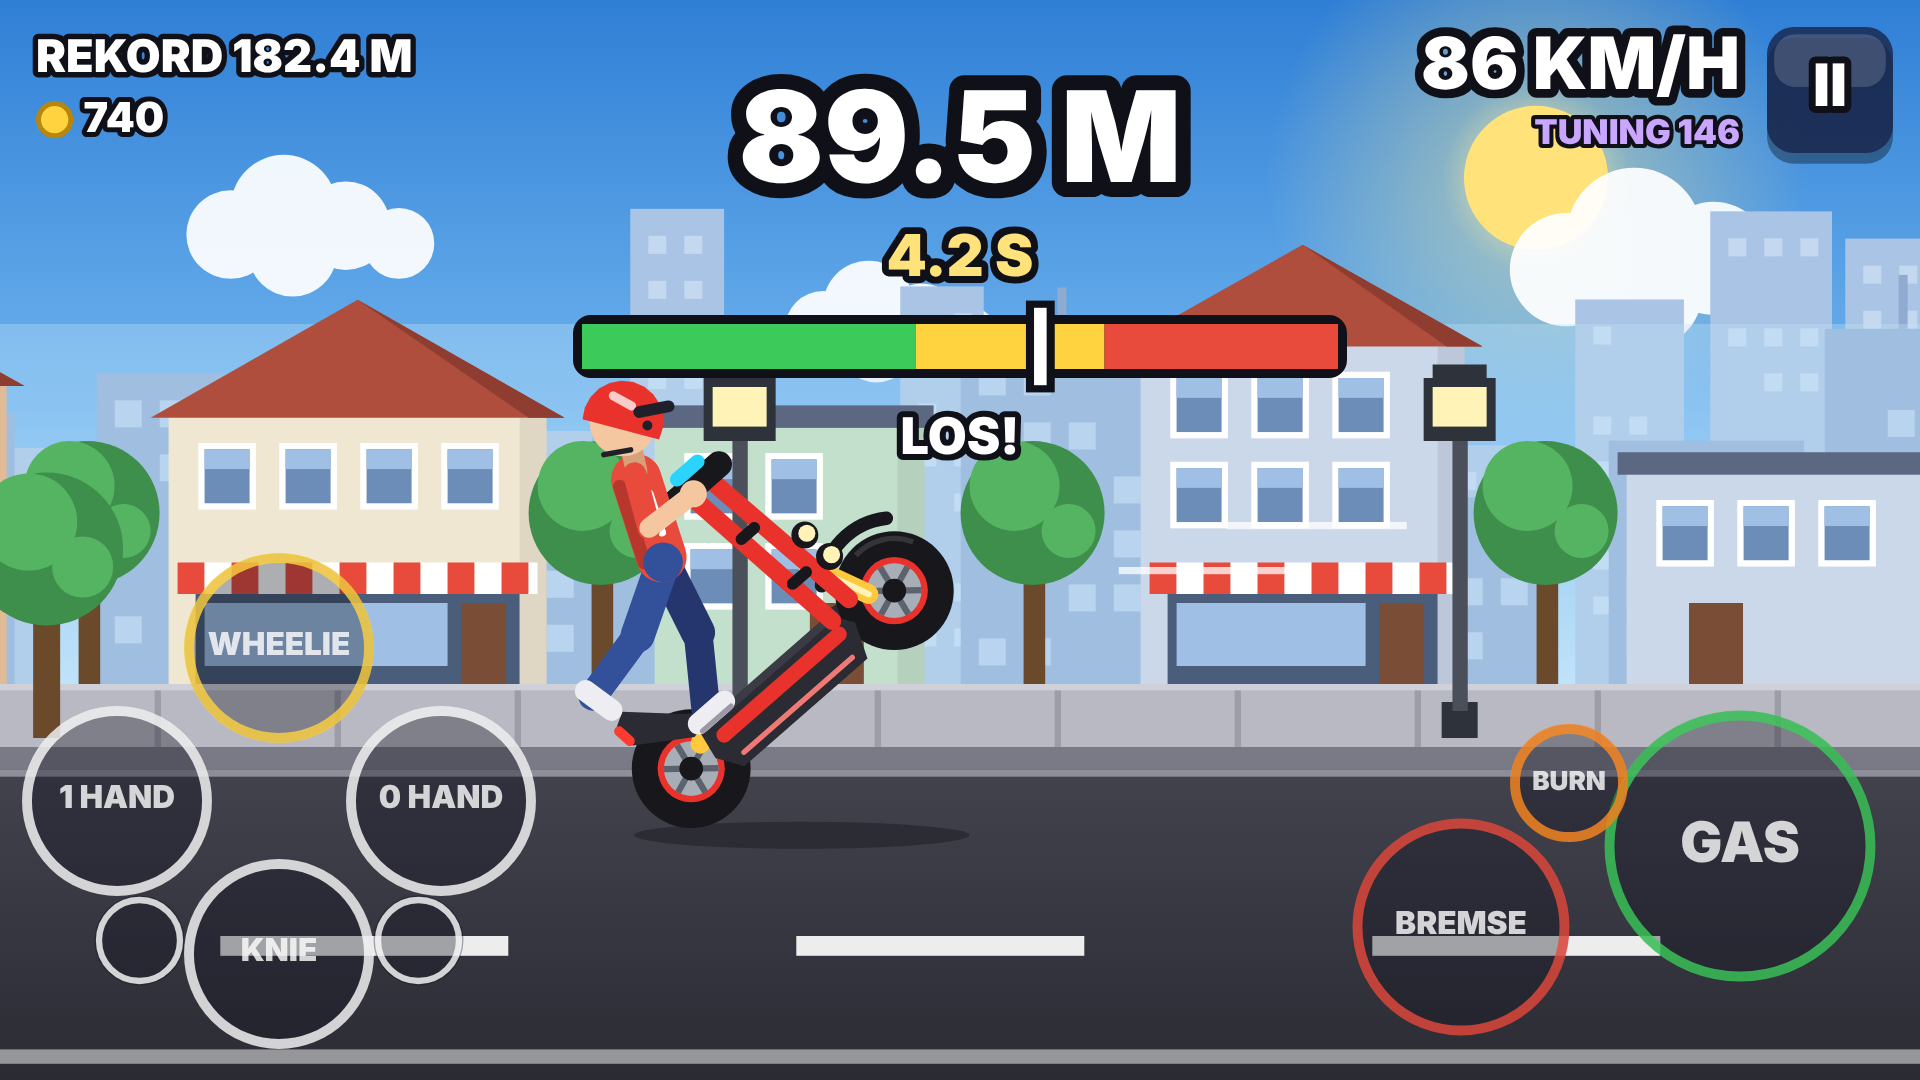
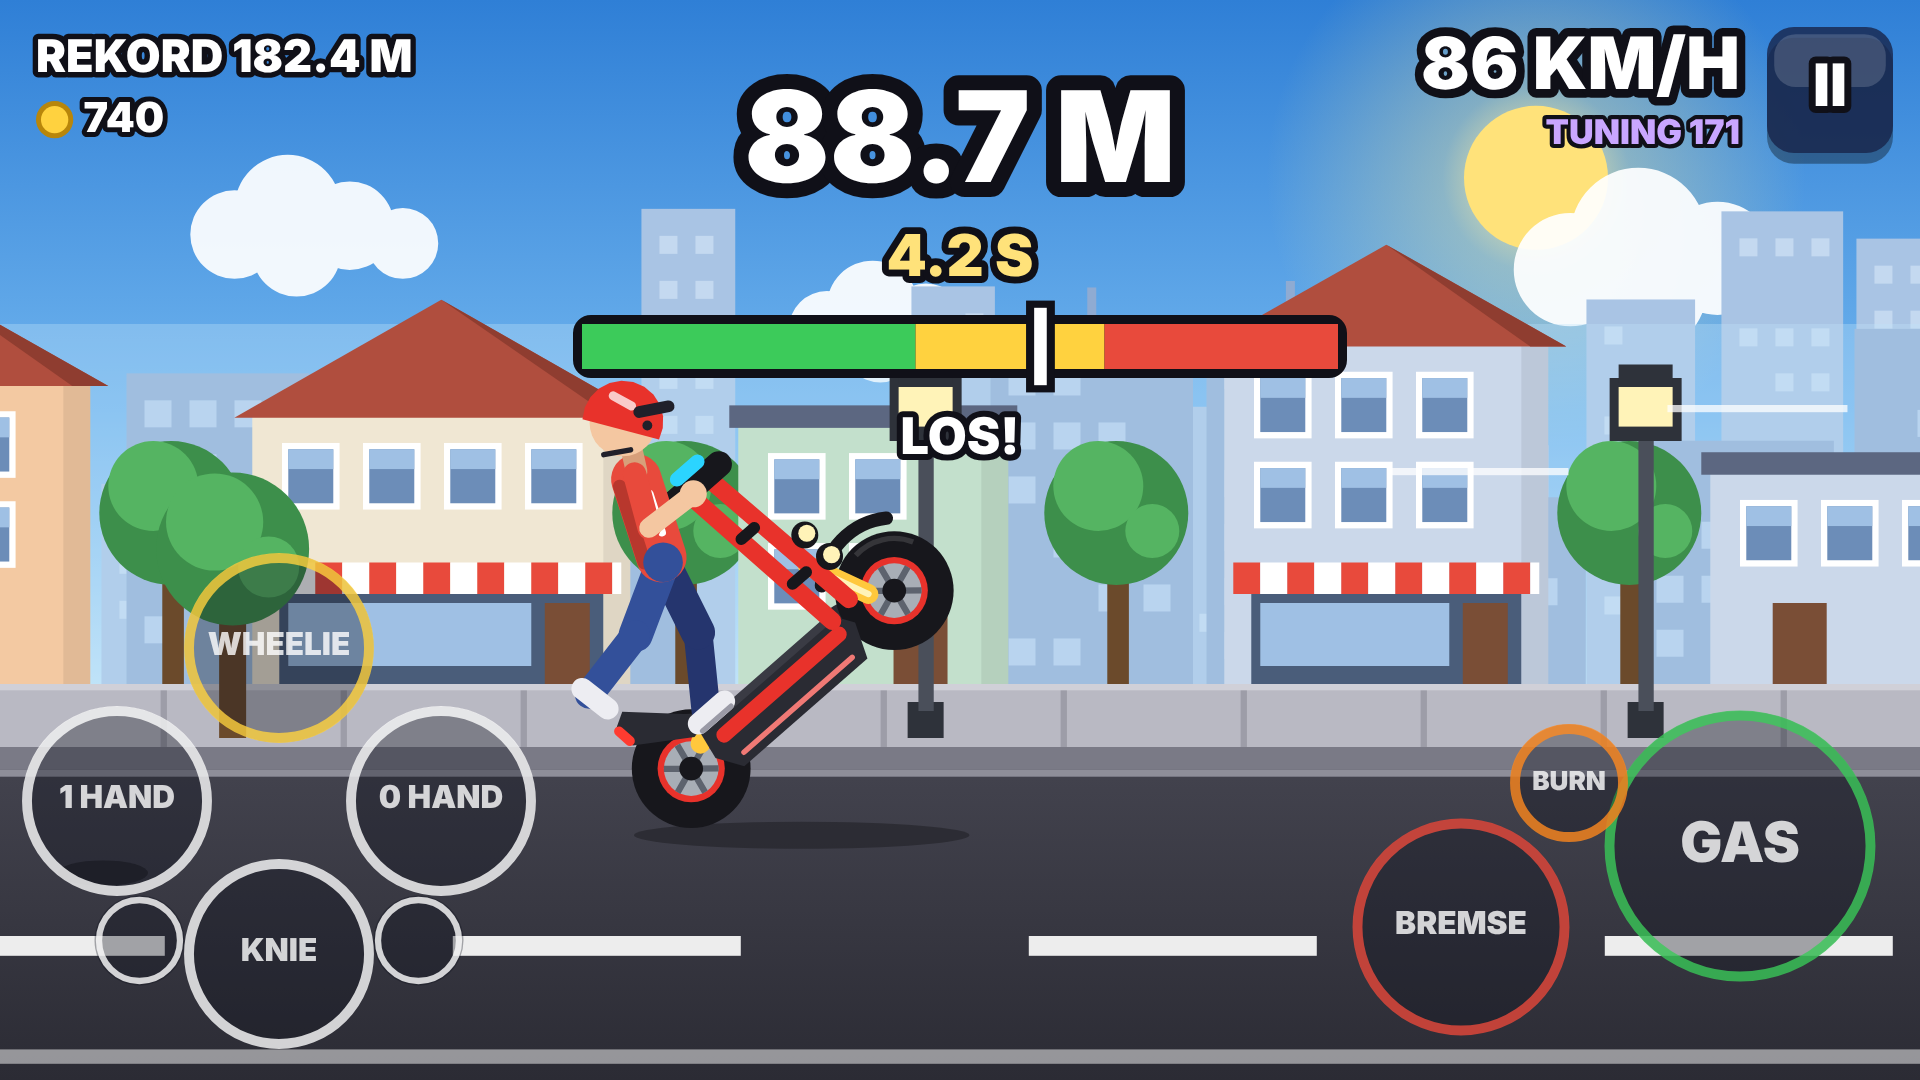
Handy-Version: jeder Scooter hat sein eigenes Tempo ohne Tuning
Ninebot Max G3 80 km/h, Kukirin G4 105 km/h, Dualtron X Limited 125 km/h.
Tuning kommt wie bisher oben drauf.

Claude-Session: https://claude.ai/code/session_01Sb8gd8WMWDHa6kn2fSYihm

diff --git a/handy/www/game.js b/handy/www/game.js
@@ -1,13 +1,13 @@
 // E-SCOOTER WHEELIE - Handy-Version (läuft im Browser und als Android-App)
 //
-// Die Physik ist 1:1 aus code.py (PyBadge-Version) übernommen. Ohne Tuning
-// fährt jeder Scooter genau wie das Original: 100 km/h, gleicher Wheelie.
+// Die Physik ist 1:1 aus code.py (PyBadge-Version) übernommen: gleicher Wheelie,
+// gleicher Burnout und Boost. Nur die Höchstgeschwindigkeit hat jeder Scooter seine eigene.
 'use strict';
 (() => {
   // ------------------------------------------------------------------
   // EINSTELLUNGEN - gleiche Werte wie in code.py
   // ------------------------------------------------------------------
-  const MAX_KMH = 100;        // Höchstgeschwindigkeit ohne Tuning
+  const MAX_KMH = 100;        // Höchstgeschwindigkeit vom Original (jeder Scooter hat seine eigene, siehe SCOOTERS)
   const ACCEL = 6.0;          // Beschleunigung beim Anfahren (m/s²)
   const POWER = 75.0;         // Motorkraft: wie gut er bei hohem Tempo noch zieht
   const BOOST_ACCEL = 14.0;   // Beschleunigung im Boost (m/s²)
@@ -30,12 +30,13 @@
   // ------------------------------------------------------------------
   // SCOOTER und TUNING
   // ------------------------------------------------------------------
-  // name = so heißt der Scooter im Spiel, price = Preis in Münzen,
+  // name = so heißt der Scooter im Spiel, kmh = Höchstgeschwindigkeit ohne Tuning,
+  // price = Preis in Münzen,
   // gain = km/h pro Motor-Stufe, cost = Tuning-Teile sind so viel mal teurer
   const SCOOTERS = [
-    { name: 'NINEBOT MAX G3', price: 0, gain: 5, cost: 1, r: 5.0, wb: 26, dy: 0, color: 0 },
-    { name: 'KUKIRIN G4', price: 300, gain: 8, cost: 1.5, r: 5.6, wb: 27, dy: 0.6, color: 9 },
-    { name: 'DUALTRON X LIMITED', price: 1200, gain: 12, cost: 2.5, r: 6.6, wb: 30, dy: 1.5, color: 3 },
+    { name: 'NINEBOT MAX G3', kmh: 80, price: 0, gain: 5, cost: 1, r: 5.0, wb: 26, dy: 0, color: 0 },
+    { name: 'KUKIRIN G4', kmh: 105, price: 300, gain: 8, cost: 1.5, r: 5.6, wb: 27, dy: 0.6, color: 9 },
+    { name: 'DUALTRON X LIMITED', kmh: 125, price: 1200, gain: 12, cost: 2.5, r: 6.6, wb: 30, dy: 1.5, color: 3 },
   ];
   const PARTS = [
     { name: 'MOTOR', info: g => '+' + g + ' KM/H' },
@@ -125,7 +126,7 @@
   const car = { vmax: VMAX0, kmh: MAX_KMH, accel: ACCEL, power: POWER, boost: BOOST_ACCEL, brake: BRAKE };
   function topSpeed(i) {
     const t = store.tune[i];
-    return MAX_KMH + SCOOTERS[i].gain * t[0] + 2 * (t[1] + t[2] + t[3]);
+    return SCOOTERS[i].kmh + SCOOTERS[i].gain * t[0] + 2 * (t[1] + t[2] + t[3]);
   }
   function applyTuning() {
     const t = store.tune[store.scooter];
@@ -1249,7 +1250,7 @@
     text('REKORD ' + store.best.toFixed(1) + ' M', IL + 4, 4, 5, '#ffffff', 0);
     coins(store.coins, IL + 4, 11, 4.6, 0);
     text(Math.round(G.v * 3.6) + ' KM/H', W - IR - 20, 3.5, 8, '#ffffff', 2);
-    if (car.kmh > MAX_KMH) text('TUNING ' + car.kmh, W - IR - 20, 13, 3.8, '#c9a6ff', 2);
+    if (car.kmh > model().kmh) text('TUNING ' + car.kmh, W - IR - 20, 13, 3.8, '#c9a6ff', 2);
     if (st === PLAY || st === CRASH) {
       if (button(W - IR - 17, 3, 14, 14, 'II', { size: 6.5, color: 'rgba(24,36,74,0.8)', inert: st === CRASH }))
         setPause(true);

diff --git a/handy/README.md b/handy/README.md
@@ -1,9 +1,9 @@
 # E-Scooter Wheelie – Handy-Version 📱
 
 Das gleiche Spiel wie auf dem PyBadge, aber für **Android-Handys** (und jeden
-Browser). Die Physik ist 1:1 aus [`code.py`](../code.py) übernommen: Ohne
-Tuning fährt jeder Scooter genau wie das Original (100 km/h, gleicher Wheelie,
-gleicher Burnout und Boost).
+Browser). Die Physik ist 1:1 aus [`code.py`](../code.py) übernommen (gleicher
+Wheelie, gleicher Burnout und Boost). Nur die Höchstgeschwindigkeit hat jeder
+Scooter seine eigene.
 
 | Menü | Tuning | Wheelie |
 |---|---|---|
@@ -11,8 +11,9 @@ gleicher Burnout und Boost).
 
 ## Was ist neu?
 
-* **3 Scooter:** Ninebot Max G3 (von Anfang an), Kukirin G4 (300 Münzen) und
-  Dualtron X Limited (1200 Münzen).
+* **3 Scooter** (Tempo ohne Tuning): Ninebot Max G3 mit 80 km/h (von Anfang an),
+  Kukirin G4 mit 105 km/h (300 Münzen) und Dualtron X Limited mit 125 km/h
+  (1200 Münzen).
 * **Münzen** gibt es für jeden sauber gelandeten Wheelie: 2 pro Meter plus die
   Trick-Punkte.
 * **Tuning** für jeden Scooter einzeln, 4 Teile mit je 3 Stufen:
@@ -24,7 +25,7 @@ gleicher Burnout und Boost).
   | Akku | +2 km/h und stärkerer Boost |
   | Reifen | +2 km/h und bessere Bremse |
 
-  Voll getunt: Ninebot 133 km/h, Kukirin 142 km/h, Dualtron 154 km/h.
+  Voll getunt: Ninebot 113 km/h, Kukirin 147 km/h, Dualtron 179 km/h.
 * **12 Farben** pro Scooter (auch Regenbogen), der Helm bekommt die gleiche Farbe.
 * **Bessere Grafik:** alles wird scharf in der Auflösung vom Handy gezeichnet,
   der Hintergrund bewegt sich in mehreren Ebenen (Wolken, Hochhäuser, Häuser,
